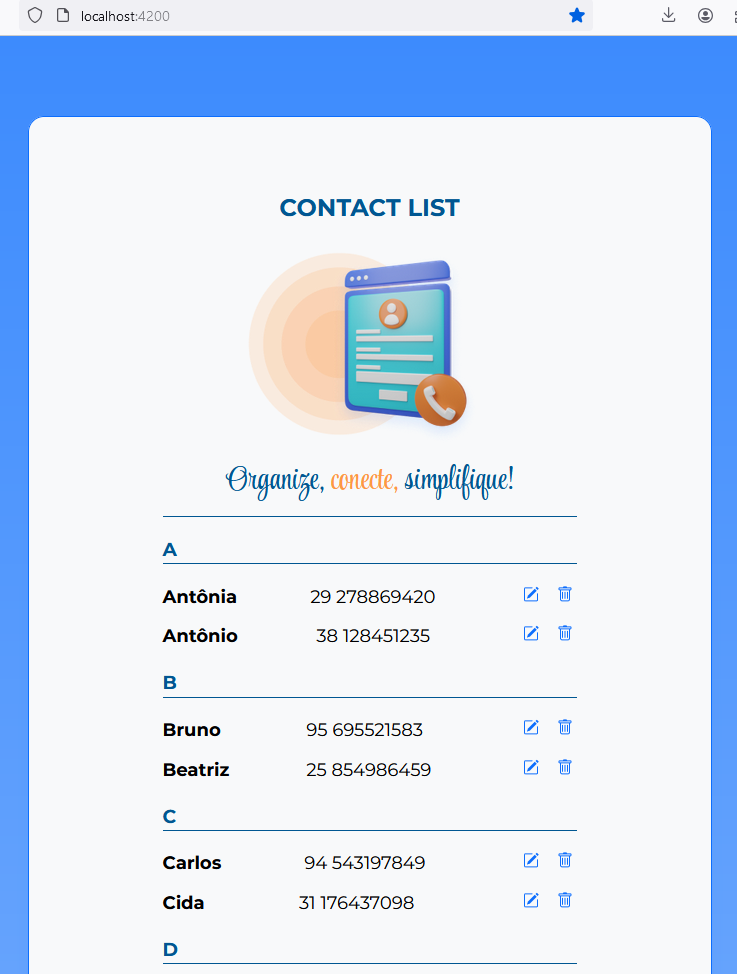
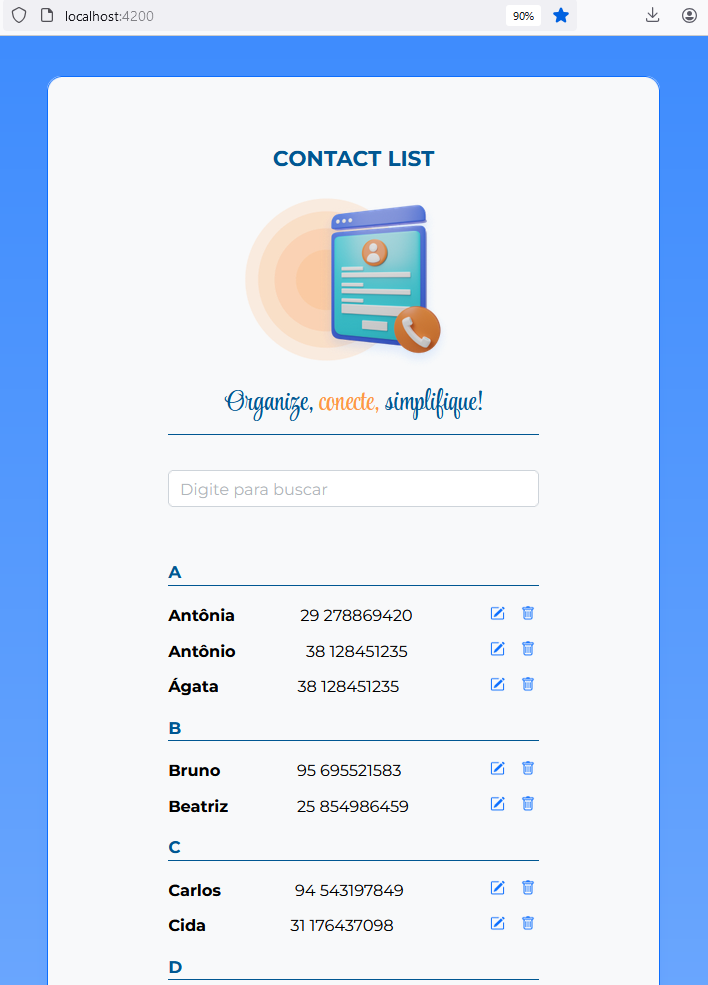
Add filter by text and remove accentuation method

diff --git a/src/app/app.component.ts b/src/app/app.component.ts
@@ -7,12 +7,13 @@ import { SpacerComponent } from './components/spacer/spacer.component';
 import { ContactComponent } from './components/contact/contact.component';
 import { IContact } from './models/contact.interface';
 import agenda from './agenda.json';
+import { FormsModule } from '@angular/forms';
 
 @Component({
   selector: 'app-root',
   standalone: true,
   imports: [CommonModule, RouterOutlet, ContainerComponent,
-    HeaderComponent, SpacerComponent, ContactComponent
+    HeaderComponent, SpacerComponent, ContactComponent, FormsModule
   ],
   templateUrl: './app.component.html',
   styleUrls: ['./app.component.css']
@@ -21,9 +22,25 @@ export class AppComponent {
   alphabet = 'abcdefghijklmnopqrstuvwxyz';
   contacts: IContact[] = agenda;
 
-  filterContactByInitialLetter(letter: string): IContact[]{
+  filterTextSearch: string = '';
+
+  removeAccentuation(text: string): string{
+    return text.normalize('NFD').replace(/[\u0300-\u036f]/g, '');
+  }
+
+  filterContactByTextSearch(): IContact[]{
+    if(!this.filterTextSearch){
+      return this.contacts;
+    }
     return this.contacts.filter(contact => {
-      return contact.nome.toLowerCase().startsWith(letter);
+      return this.removeAccentuation(contact.nome).toLowerCase()
+      .includes(this.removeAccentuation(this.filterTextSearch).toLowerCase());
+    })
+  }
+
+  filterContactByInitialLetter(letter: string): IContact[]{
+    return this.filterContactByTextSearch().filter(contact => {
+      return this.removeAccentuation(contact.nome).toLowerCase().startsWith(this.removeAccentuation(letter).toLowerCase());
     });
   }
 }

diff --git a/src/app/app.component.css b/src/app/app.component.css
@@ -1,0 +1,13 @@
+input{
+  border-radius: 5px;
+  border: 1px solid #CED4DA;
+  padding: 6px 12px;
+  width: 100%;
+  margin: 40px 0px;
+  color: #6C757D;
+  font-family: "Montserrat";
+  font-size: 18px;
+  font-style: normal;
+  font-weight: 400;
+  line-height: 150%;
+}

diff --git a/src/app/app.component.html b/src/app/app.component.html
@@ -1,5 +1,10 @@
 <app-container>
   <app-header></app-header>
+
+    <input type="search" placeholder="Digite para buscar"
+    [(ngModel)]="filterTextSearch"
+    />
+
     @for(letter of alphabet; track letter){
       <app-spacer>
         {{ letter }}
